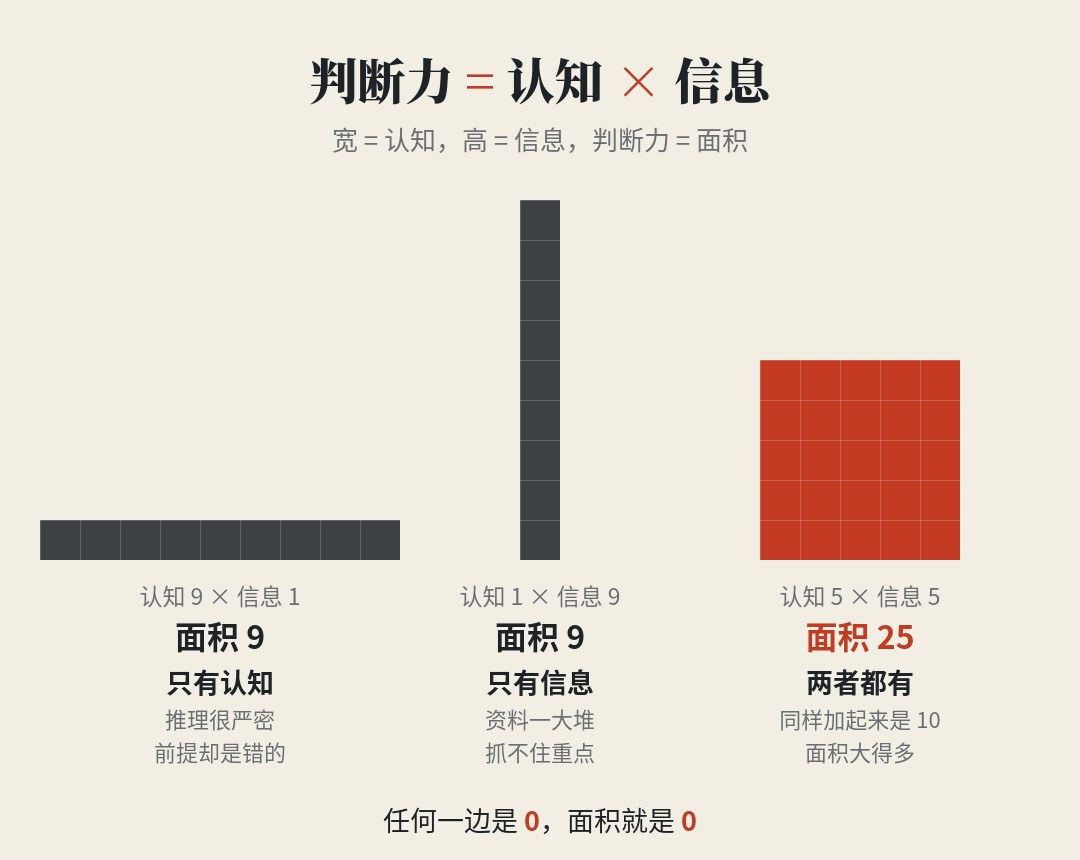
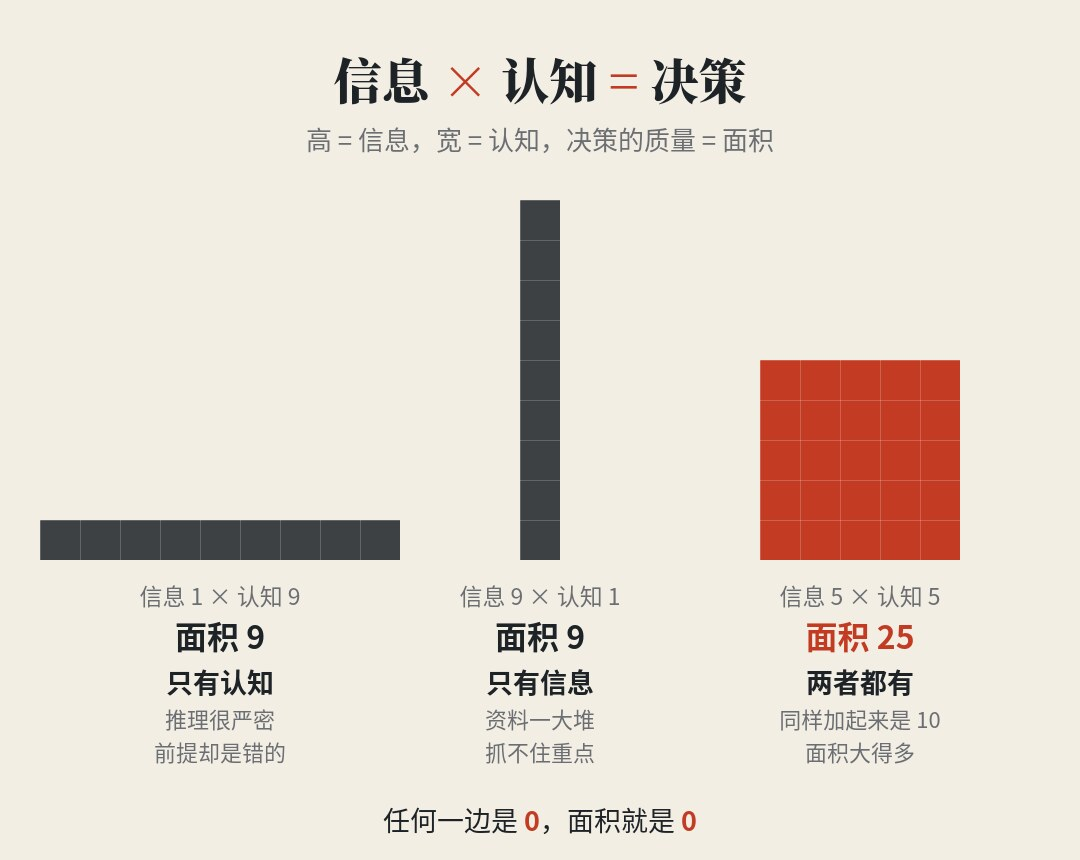
deploy: lanbing510/lanbing510-blog@11c7270bd4f72d53e238b73593af59aeddad5cd0

diff --git a/2026/11/05/MingBianLab.html b/2026/11/05/MingBianLab.html
@@ -5,10 +5,10 @@
 <title>答案越来越便宜，判断越来越贵 | 冰蓝记录思考的地方</title>
 <meta name="author" content="lanbing510">
 
-  <meta name="keywords" content="明辨Lab，判断力，思维模型，认知，信息，中庸，明辨">
+  <meta name="keywords" content="明辨Lab，决策，思维模型，认知，信息，中庸，明辨">
 
 
-  <meta name="description " content="明辨Lab 发刊词：获取答案的成本几乎降到了零，判断却越来越难。判断力 = 认知 × 信息，这里会讲透 300 多个思维模型，分享好书和可靠的信息。">
+  <meta name="description " content="明辨Lab 发刊词：获取答案的成本几乎降到了零，判断却越来越难。信息 × 认知 = 决策，这里会讲透 300 多个思维模型，分享好书和可靠的信息。">
 
 
 <!--Https -> Http, Https Will Reuslt In Errors With Busuanzi -->
@@ -3164,7 +3164,7 @@ var _hmt = _hmt || [];
 
 <p><strong>获取答案的成本，几乎已经降到了零。可是「从一堆答案里做出判断」这件事，一点也没有变容易</strong>——甚至更难了。因为看起来像模像样的内容越来越多，真正值得信的，并没有跟着变多。</p>
 
-<p>所以我开始做一件事：<strong>和你一起，练判断力。</strong>我给它起了个名字，叫「明辨Lab」。</p>
+<p>所以我开始做一件事：<strong>和你一起，学着做更好的决策。</strong>我给它起了个名字，叫「明辨Lab」。</p>
 
 <p>明辨Lab 主要在微信公众号更新，这里也会同步一部分。「万书挑一」的书单照常更新。</p>
 
@@ -3176,13 +3176,13 @@ var _hmt = _hmt || [];
 <p>博学之，审问之，慎思之，明辨之，笃行之。</p>
 </blockquote>
 
-<p>这五步，正好是一次完整的判断：</p>
+<p>这五步，正好是一次完整的决策：</p>
 
 <ul>
 <li><strong>博学、审问</strong>，是<strong>信息</strong>：先广泛地看，再追问它是真是假、从哪里来。</li>
 <li><strong>慎思</strong>，是<strong>认知</strong>：用脑子里的框架和模型，认真地想。</li>
-<li><strong>明辨</strong>，是<strong>判断</strong>：把信息和认知合在一起，分清是非对错。</li>
-<li><strong>笃行</strong>，是<strong>实践</strong>：判断完了就去做，再从结果里学。</li>
+<li><strong>明辨</strong>，是<strong>决策</strong>：把信息和认知合在一起，分清是非，选定怎么做。</li>
+<li><strong>笃行</strong>，是<strong>实践</strong>：选定了就去做，再从结果里学。</li>
 </ul>
 
 <p>「明辨」这个名字，取的就是第四步：前面是信息和认知，后面是行动。</p>
@@ -3199,7 +3199,7 @@ var _hmt = _hmt || [];
 
 <p>这把刀要切开的东西，我们每天都会碰到：<strong>事实和观点，信号和噪音，「听起来对」和「真的对」。</strong></p>
 
-<p><strong>先明，后辨：先看清，再判断。</strong></p>
+<p><strong>先明，后辨：先看清，再决定。</strong></p>
 
 <p>至于「Lab」，是实验室的意思，对应的是最后一步「笃行」。毛主席在《实践论》里有一句很有名的话：</p>
 
@@ -3207,9 +3207,9 @@ var _hmt = _hmt || [];
 <p>你要知道梨子的滋味，你就得变革梨子，亲口吃一吃。</p>
 </blockquote>
 
-<p>判断力也是这样，不是读完一篇文章就能有的，要在一次次真实的选择里去试、去错、去复盘。《实践论》把这个过程概括为：「实践、认识、再实践、再认识，这种形式，循环往复以至无穷。」所以这里的每一篇内容，我都希望你能拿去用上一次。</p>
+<p>做决策也是这样，不是读完一篇文章就能学会的，要在一次次真实的选择里去试、去错、去复盘。《实践论》把这个过程概括为：「实践、认识、再实践、再认识，这种形式，循环往复以至无穷。」所以这里的每一篇内容，我都希望你能拿去用上一次。</p>
 
-<h2>二、一个公式：判断力 = 认知 × 信息</h2>
+<h2>二、一个公式：信息 × 认知 = 决策</h2>
 
 <p>把《中庸》的前四步压缩一下，就是这个公式，也是我这几年最常想起的一句话。</p>
 
@@ -3220,9 +3220,11 @@ var _hmt = _hmt || [];
 
 <p>为什么用乘号，而不是加号？</p>
 
+<p>程子讲《中庸》这五步时说：「五者废其一，非学也。」缺一步，就不成。</p>
+
 <p><img src="/public/img/posts/mingbianlab/fig2_area.jpg" width="800px"> </img></p>
 
-<p>把认知当成宽，信息当成高，判断力就是面积。</p>
+<p>把信息当成高，认知当成宽，决策的质量就是面积。</p>
 
 <p><strong>只有认知、没有信息</strong>：推理再严密，前提错了，结论也只能跟着错。</p>
 
@@ -3232,7 +3234,7 @@ var _hmt = _hmt || [];
 
 <p>这也正是「明」字里的画面：窗再大，没有月光，屋里也是黑的；月光再亮，没有窗，也照不进来。</p>
 
-<p>还要说明一点：这里说的是判断「力」，不是判断的结果。认知和信息都到位，也照样可能判断错，因为世界有不确定性，也有运气。我们能练的，是让自己判断对的概率高一点，错了也知道错在哪。</p>
+<p>还要说明一点：这里说的是决策，不是结果。信息和认知都到位，结果也照样可能不如意，因为世界有不确定性，也有运气。我们能练的，是让每一次决策的质量高一点，错了也知道错在哪。</p>
 
 <h2>三、为什么是现在</h2>
 
@@ -3327,11 +3329,11 @@ var _hmt = _hmt || [];
 
 <p>我希望明辨Lab 能成为这样一个地方：每次来，带走一个新的模型、一本好书，或者一条值得信的信息；下一次做选择的时候，能多想一步，想得更清楚一点。</p>
 
-<p><strong>判断力 = 认知 × 信息。</strong></p>
+<p><strong>信息 × 认知 = 决策。</strong></p>
 
 <p>我们一起，慢慢练。</p>
 
-<p>明辨Lab 会在微信公众号持续更新。想一起练判断力，可以微信搜索「明辨Lab」，或者扫下面的二维码。</p>
+<p>明辨Lab 会在微信公众号持续更新。想一起学着做出更好的决策，可以微信搜索「明辨Lab」，或者扫下面的二维码。</p>
 
 <p><img src="/public/img/posts/mingbianlab/qr_card.jpg" width="360px"> </img></p>
 

diff --git a/pages/about.html b/pages/about.html
@@ -3174,7 +3174,7 @@ var _hmt = _hmt || [];
 <h3>公众号</h3>
 <hr>
 <p style=font-size:18px>
-<b>明辨Lab</b>：判断力 = 认知 × 信息。分享经过复核的思维模型、真正值得读的好书和可靠的信息，在 AI 时代先看清，再判断。
+<b>明辨Lab</b>：信息 × 认知 = 决策。分享经过复核的思维模型、真正值得读的好书和可靠的信息，在 AI 时代先看清，再决定。
 </p>
 <img src="/public/img/mingbianlab_qr.jpg" alt="明辨Lab 公众号二维码" style="display:block;margin:0 auto" width="160" height="160">
 <p style="text-align:center;color:#999;font-size:14px;margin-top:6px">微信扫码，或搜索「明辨Lab」</p>
